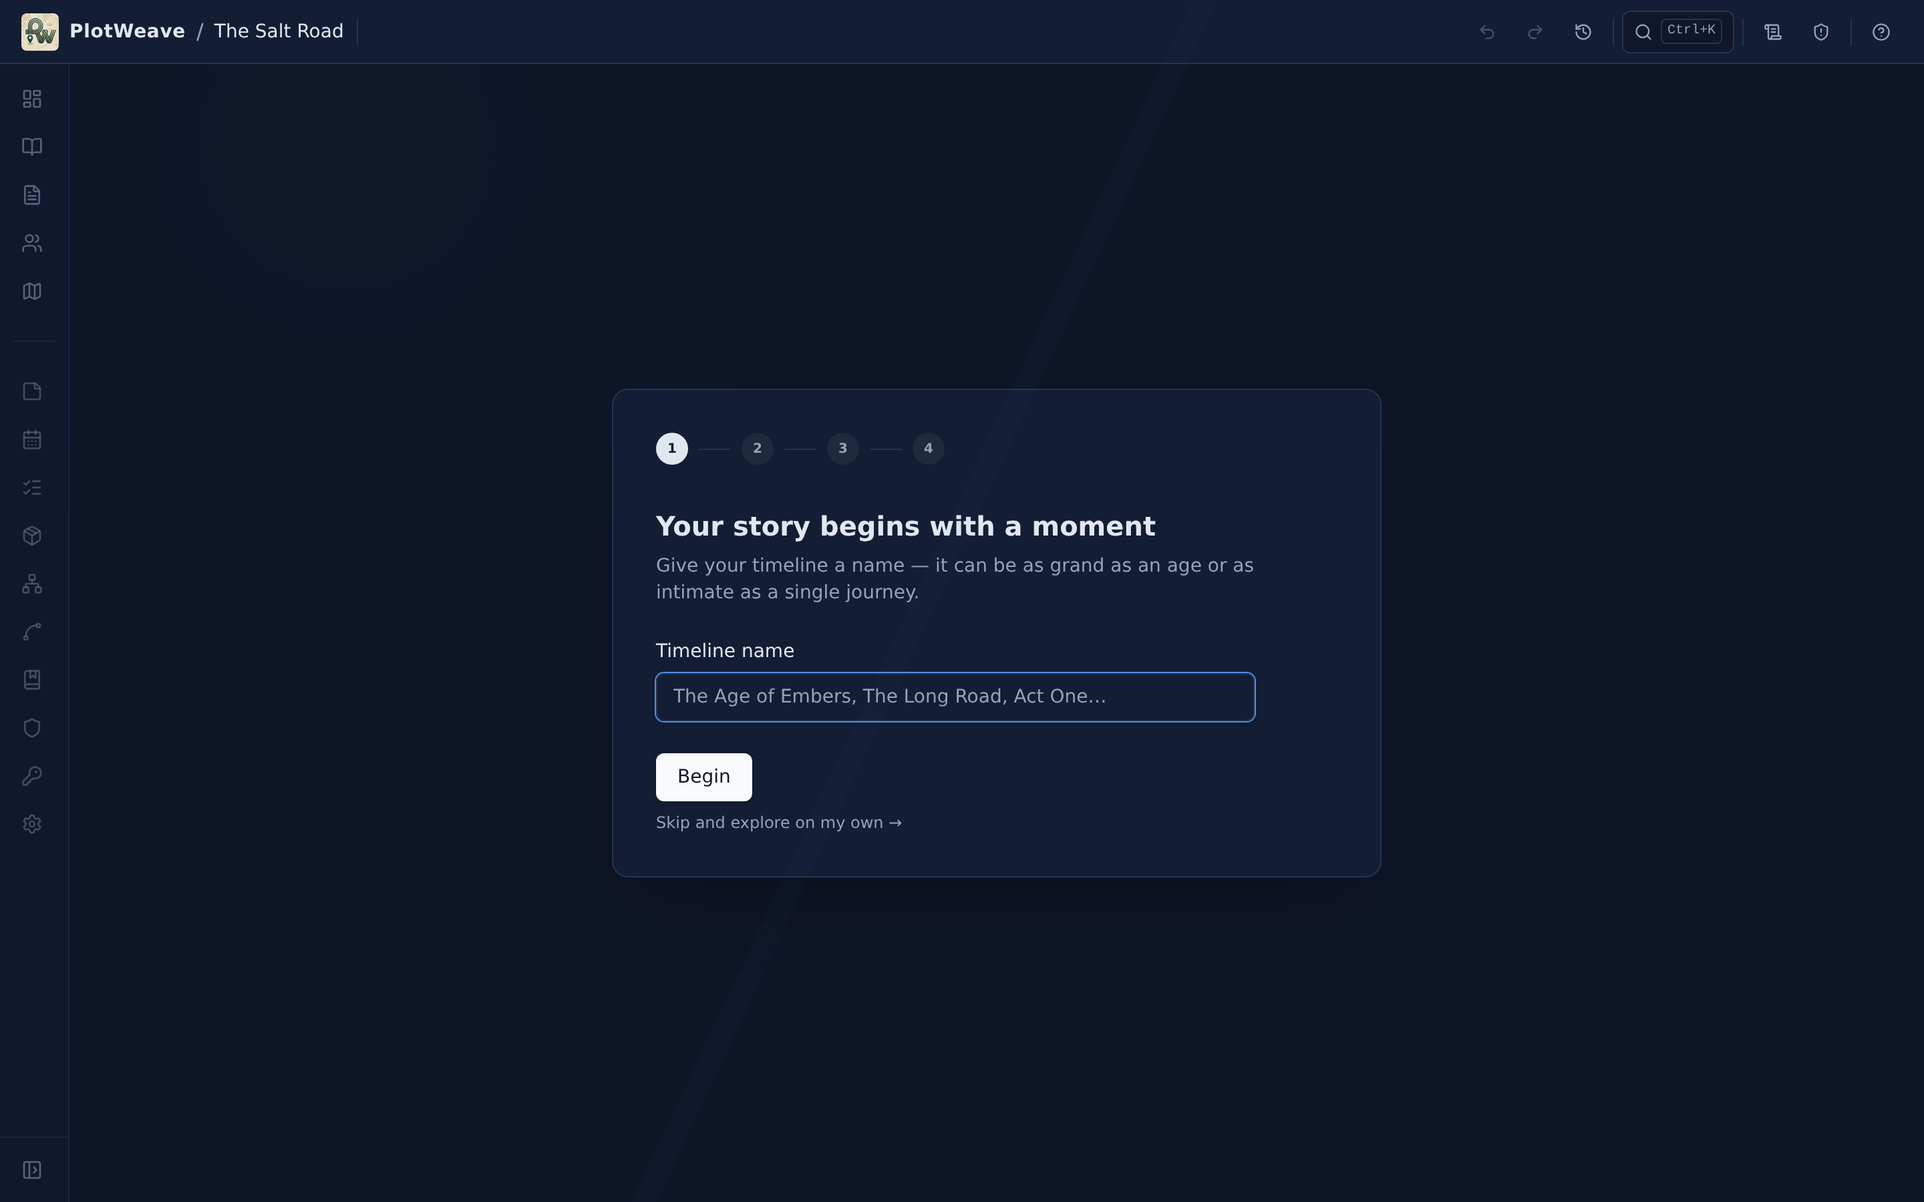
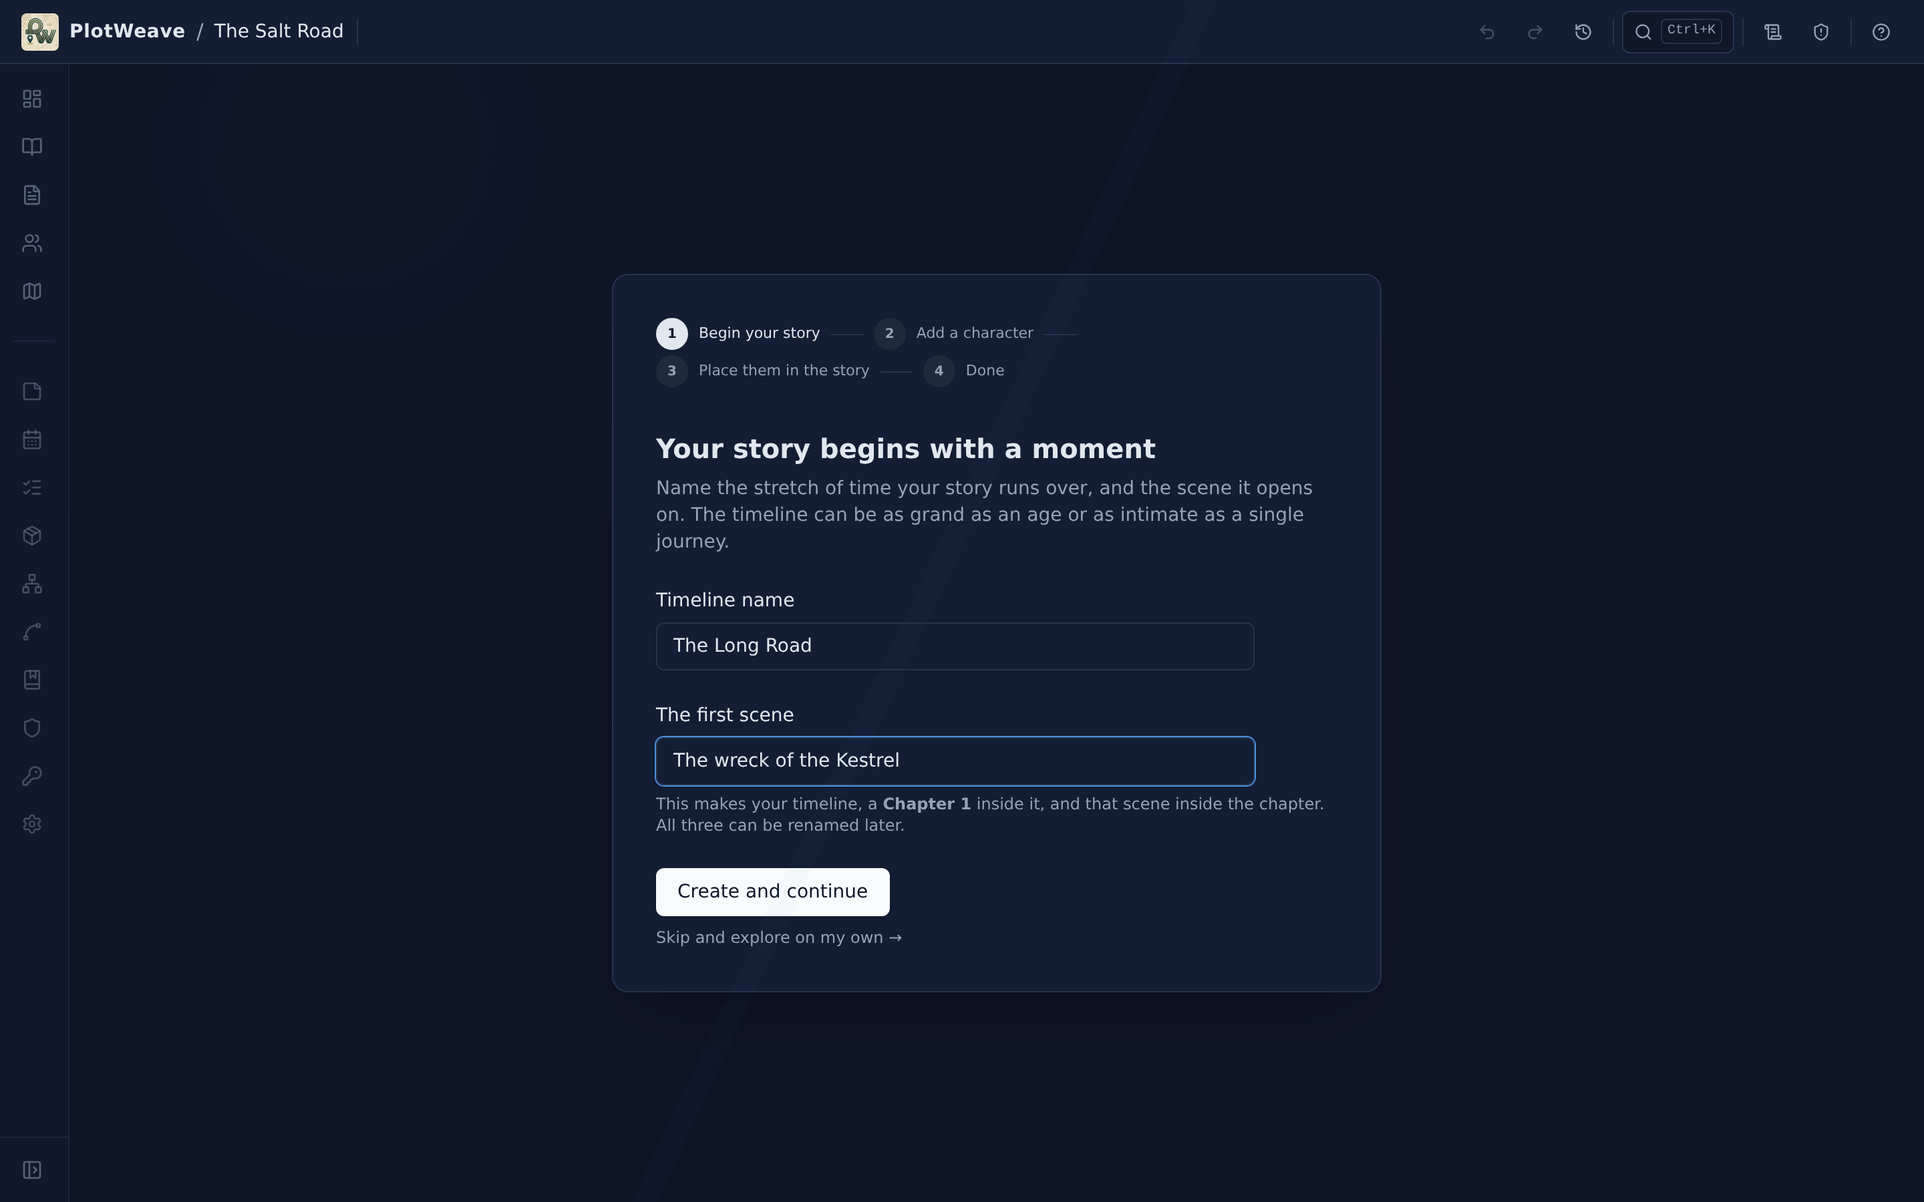
The first step names the moment it makes
OP-3 and OP-4, both about a step of the first-run guide not matching what it
did.

OP-3: step 1 asked for a timeline name under the heading "Your story begins
with a moment" and quietly made three records. The finding said the scene
was untitled; it was not, and the truth was sharper — it took the timeline's
own name, so a writer who typed "The Age of Embers" met an opening moment
called "The Age of Embers", which looks deliberate rather than unfinished.
The step now asks for the scene as well, and says what it will build from
the two: the timeline, a Chapter 1 inside it, and that scene inside the
chapter. Validation is per field, so an empty scene marks the scene input.

OP-4: the disclosure above the primary action read "Add a description
(optional)", directly above "Add them to the story" — two adjacent buttons
both beginning with Add, one of which submits and one of which expands a
field. It is named for what it reveals now, which is what a disclosure is.

While testing OP-3 the wizard's progress nav turned out to name all four
steps at all times, which means NEW-3's "the wizard moved on" assertion was
reading a label that is on screen during step 1 too. It never could have
failed. It reads step 2's own heading now, and the OP-3 test uses the same
signal. Three mutations, all red.

Also records in CLAUDE.md what cost two verification runs today: the e2e
suite reads dist/ and the spec files from disk while it runs, so a rebuild or
[…]

Changed region(s): [[0.3438, 0.5289, 0.6875, 0.8089], [0.3438, 0.3422, 0.6875, 0.4978], [0.3438, 0.2489, 0.4062, 0.3111]]

diff --git a/e2e/onboardingSteps.spec.ts b/e2e/onboardingSteps.spec.ts
@@ -60,12 +60,17 @@ test.describe('The first-run wizard says what it is asking for', () => {
     const create = page.getByRole('button', { name: 'Create and continue' })
     await expect(create).toBeVisible()
     await page.getByLabel('Timeline name').fill('The Age of Embers')
+    await page.getByLabel('The first scene').fill('The wreck')
     await create.click()
 
     // It did what it says, and the wizard moved on — so this is not passing on
     // a button that was merely relabelled and wired to nothing.
-    await expect(page.getByRole('navigation', { name: 'Wizard progress' })
-      .getByText('Add a character', { exact: true })).toBeVisible({ timeout: 15_000 })
+    //
+    // Read off step 2's *heading*, not the step name in the progress nav: NEW-2
+    // draws all four names at all times, so "Add a character" is on screen
+    // during step 1 as well and asserting it proves nothing.
+    await expect(page.getByRole('heading', { name: 'Every story needs someone to follow' }))
+      .toBeVisible({ timeout: 15_000 })
   })
 
   test('NEW-4: the first screen is centred, not a third of a page of wallpaper', async ({ page }) => {
@@ -88,4 +93,68 @@ test.describe('The first-run wizard says what it is asking for', () => {
       getComputedStyle(document.body).backgroundImage)
     expect(wallpaper === 'none' || !wallpaper.includes('url(')).toBe(true)
   })
+})
+
+test('OP-3: step 1 names the moment it makes, and says what else it makes', async ({ page }) => {
+  // The step asked only for a timeline name and quietly created three records:
+  // the timeline, a "Chapter 1" nobody mentioned, and a scene that took the
+  // timeline's own name. The writer then met a moment they had not named.
+  await firstRun(page)
+
+  // It says what it is about to build, rather than leaving you to find out.
+  await expect(page.getByText(/This makes your timeline, a\s+Chapter 1\s+inside it/))
+    .toBeVisible()
+
+  // The moment is asked for, not assumed: naming only the timeline does not
+  // proceed...
+  await page.getByLabel('Timeline name').fill('The Age of Embers')
+  await page.getByRole('button', { name: 'Create and continue' }).click()
+  await expect(page.getByRole('alert')).toContainText('Name the first scene')
+  // Still on step 1. Measured by the step's own heading — the progress nav
+  // names every step at all times, so it says nothing about where you are.
+  const step2 = page.getByRole('heading', { name: 'Every story needs someone to follow' })
+  await expect(step2).toHaveCount(0)
+
+  // ...and naming it does, which is the presence half of that absence.
+  await page.getByLabel('The first scene').fill('The wreck of the Kestrel')
+  await page.getByRole('button', { name: 'Create and continue' }).click()
+  await expect(step2).toBeVisible({ timeout: 15_000 })
+
+  // The scene carries the name the writer gave it, not the timeline's — which
+  // is what made the created moment feel like someone else's.
+  const stored = await page.evaluate(async () => {
+    const db = (window as { __pwdb?: never }).__pwdb as unknown as {
+      events: { toArray: () => Promise<{ title: string }[]> }
+      chapters: { toArray: () => Promise<{ title: string }[]> }
+    }
+    return {
+      events: (await db.events.toArray()).map((e) => e.title),
+      chapters: (await db.chapters.toArray()).map((c) => c.title),
+    }
+  })
+  expect(stored.events).toEqual(['The wreck of the Kestrel'])
+  expect(stored.chapters).toEqual(['Chapter 1'])
+})
+
+test('OP-4: only one button on the character step is an "Add"', async ({ page }) => {
+  // "Add a description (optional)" sat directly above "Add them to the story".
+  // One submits the step, one expands a field, and pressing the wrong one read
+  // as nothing happening at all.
+  await firstRun(page)
+  await page.getByLabel('Timeline name').fill('The Age of Embers')
+  await page.getByLabel('The first scene').fill('The wreck')
+  await page.getByRole('button', { name: 'Create and continue' }).click()
+
+  const form = page.getByRole('main')
+  await expect(form.getByRole('button', { name: 'Add them to the story' }))
+    .toBeVisible({ timeout: 15_000 })
+  await expect(form.getByRole('button', { name: /^Add/ })).toHaveCount(1)
+
+  // The disclosure is still there and still discloses — so the count above is
+  // one because the control was renamed, not because it was removed.
+  const disclosure = form.getByRole('button', { name: 'Description (optional)' })
+  await expect(disclosure).toBeVisible()
+  await expect(form.getByLabel('Character description (optional)')).toHaveCount(0)
+  await disclosure.click()
+  await expect(form.getByLabel('Character description (optional)')).toBeVisible()
 })

diff --git a/src/features/onboarding/steps/StepTimeline.tsx b/src/features/onboarding/steps/StepTimeline.tsx
@@ -14,7 +14,10 @@ interface StepTimelineProps {
 
 export function StepTimeline({ worldId, onComplete, onSkip }: StepTimelineProps) {
   const [name, setName]       = useState('')
-  const [error, setError]     = useState('')
+  const [scene, setScene]     = useState('')
+  // Which field is complaining, so the message and `aria-invalid` land on the
+  // one that is actually empty rather than on whichever renders the error node.
+  const [error, setError]     = useState<{ field: 'name' | 'scene'; message: string } | null>(null)
   const [loading, setLoading] = useState(false)
   const inputRef              = useRef<HTMLInputElement>(null)
 
@@ -22,7 +25,14 @@ export function StepTimeline({ worldId, onComplete, onSkip }: StepTimelineProps)
 
   async function handleSubmit(e: React.FormEvent) {
     e.preventDefault()
-    if (!name.trim()) { setError('Give this moment a name before we begin.'); return }
+    if (!name.trim()) {
+      setError({ field: 'name', message: 'Give your timeline a name before we begin.' })
+      return
+    }
+    if (!scene.trim()) {
+      setError({ field: 'scene', message: 'Name the first scene — this is the moment your story opens on.' })
+      return
+    }
     setLoading(true)
     try {
       const timeline = await createTimeline({ worldId, name: name.trim(), description: '', color: '#6366f1' })
@@ -31,7 +41,7 @@ export function StepTimeline({ worldId, onComplete, onSkip }: StepTimelineProps)
         worldId,
         timelineId: timeline.id,
         chapterId: chapter.id,
-        title: name.trim(),
+        title: scene.trim(),
         description: '',
         locationMarkerId: null,
         involvedCharacterIds: [],
@@ -52,7 +62,8 @@ export function StepTimeline({ worldId, onComplete, onSkip }: StepTimelineProps)
           Your story begins with a moment
         </h2>
         <p className="mt-1.5 text-sm text-[hsl(var(--muted-foreground))]">
-          Give your timeline a name — it can be as grand as an age or as intimate as a single journey.
+          Name the stretch of time your story runs over, and the scene it opens on.
+          The timeline can be as grand as an age or as intimate as a single journey.
         </p>
       </div>
 
@@ -64,16 +75,48 @@ export function StepTimeline({ worldId, onComplete, onSkip }: StepTimelineProps)
           id="wizard-timeline-name"
           ref={inputRef}
           value={name}
-          onChange={(e) => { setName(e.target.value); setError('') }}
+          onChange={(e) => { setName(e.target.value); setError(null) }}
           placeholder="The Age of Embers, The Long Road, Act One…"
-          aria-describedby={error ? 'wizard-timeline-error' : undefined}
-          aria-invalid={!!error}
+          aria-describedby={error?.field === 'name' ? 'wizard-timeline-error' : undefined}
+          aria-invalid={error?.field === 'name'}
           className="max-w-md"
           disabled={loading}
         />
-        {error && (
+        {error?.field === 'name' && (
           <p id="wizard-timeline-error" role="alert" className="text-xs text-red-500">
-            {error}
+            {error.message}
+          </p>
+        )}
+      </div>
+
+      {/*
+        OP-3: this step asked for a timeline name and silently made three
+        records — a timeline, "Chapter 1", and a scene that took the timeline's
+        own name, so the writer met a moment they had not named and a chapter
+        nobody had mentioned. The heading promises a moment, so the step now
+        asks for one, and says what it is about to build.
+      */}
+      <div className="flex flex-col gap-1.5">
+        <Label htmlFor="wizard-first-scene" className="text-sm">
+          The first scene
+        </Label>
+        <Input
+          id="wizard-first-scene"
+          value={scene}
+          onChange={(e) => { setScene(e.target.value); setError(null) }}
+          placeholder="The wreck, A letter arrives, The gate opens…"
+          aria-describedby={error?.field === 'scene' ? 'wizard-scene-error' : 'wizard-creates'}
+          aria-invalid={error?.field === 'scene'}
+          className="max-w-md"
+          disabled={loading}
+        />
+        <p id="wizard-creates" className="text-xs text-[hsl(var(--muted-foreground))]">
+          This makes your timeline, a <strong>Chapter 1</strong> inside it, and that
+          scene inside the chapter. All three can be renamed later.
+        </p>
+        {error?.field === 'scene' && (
+          <p id="wizard-scene-error" role="alert" className="text-xs text-red-500">
+            {error.message}
           </p>
         )}
       </div>

diff --git a/src/features/onboarding/steps/StepCharacter.tsx b/src/features/onboarding/steps/StepCharacter.tsx
@@ -83,8 +83,16 @@ export function StepCharacter({ worldId, onComplete, onSkip }: StepCharacterProp
             )}
             aria-expanded={descExpanded}
           >
+            {/*
+              OP-4: this read "Add a description (optional)" and sat directly
+              above the primary "Add them to the story". Two adjacent buttons
+              both starting with "Add", one of which submits the step and one of
+              which expands a field — pressing the wrong one looked like nothing
+              happening. A disclosure is named for what it reveals, not for an
+              action, so it is a noun now and the collision is gone.
+            */}
             <ChevronDown className={cn('h-3.5 w-3.5 transition-transform', descExpanded && 'rotate-180')} />
-            Add a description (optional)
+            Description (optional)
           </button>
           {descExpanded && (
             <Textarea

diff --git a/e2e/chapterCursor.spec.ts b/e2e/chapterCursor.spec.ts
@@ -107,6 +107,7 @@ test.describe('The time cursor follows you', () => {
 
     // Step 1 is headed "Your story begins with a moment" and creates one.
     await page.getByLabel('Timeline name').fill('Main Timeline')
+    await page.getByLabel('The first scene').fill('The wreck')
     await page.getByRole('button', { name: 'Create and continue' }).click()
 
     // The guide chose a moment on the writer's behalf, so the app is now in it —

diff --git a/docs/ux-review.md b/docs/ux-review.md
@@ -213,8 +213,8 @@ faults in the product. Only what survived that second check is listed.
 |---|---|---|---|
 | OP-1 | high | **done** | **One Escape closes two layers.** Open a dialog (Add Character), press Ctrl+K, and the search palette opens *on top of it*. A single Escape then dismisses **both** — verified: palette `false`, dialog `false` after one press. A user who searches for a name mid-form and presses Escape to get back loses the half-filled dialog and its input. Escape should dismiss the topmost layer only. |
 | OP-2 | med | open | **An open palette traps you.** With the palette up, the nav rail is unreachable: the link resolves but the click is intercepted by the overlay, so the only way out is Escape. That is defensible for a modal on its own, but combined with OP-1 it means overlay layering is not being managed deliberately — the palette will happily stack on anything, and Escape does not respect the stack. |
-| OP-3 | med | open | **The first-run guide creates more than it says.** Step 1 asks only for a timeline name, under the heading *"Your story begins with a moment"*. Verified by reading IndexedDB straight after: naming a timeline and a character leaves **1 chapter, 1 event, and 1 character** in the world. The chapter and the event were never named, shown, or mentioned — the user then meets a "Ch. 1" and an untitled scene they did not knowingly make. Either say so, or let them name the scene, which is what the heading already promises. |
-| OP-4 | low | open | **Two buttons whose names both begin with "Add", adjacent.** On the character step, *"Add a description (optional)"* (a disclosure) sits directly above the primary *"Add them to the story"*. Clicking the wrong one silently expands a field instead of submitting, with no feedback that nothing happened. It cost this review a whole run. |
+| OP-3 | med | **fixed** | **The first-run guide creates more than it says.** Step 1 asks only for a timeline name, under the heading *"Your story begins with a moment"*. Verified by reading IndexedDB straight after: naming a timeline and a character leaves **1 chapter, 1 event, and 1 character** in the world. The chapter and the event were never named, shown, or mentioned — the user then meets a "Ch. 1" and an untitled scene they did not knowingly make. Either say so, or let them name the scene, which is what the heading already promises. | **Both, because they were the same fix.** The step asks for the first scene as well as the timeline, and states what it will build from the two: the timeline, a *Chapter 1* inside it, and that scene inside the chapter, all three renameable later. **One detail the finding got wrong, and it was the sharper half:** the scene was not untitled — it silently took the *timeline's* name, so a writer who typed *The Age of Embers* met an opening moment called *The Age of Embers*. That is worse than untitled, because it looks deliberate. Validation is now per field, so an empty scene marks the scene input rather than the timeline one. |
+| OP-4 | low | **fixed** | **Two buttons whose names both begin with "Add", adjacent.** On the character step, *"Add a description (optional)"* (a disclosure) sits directly above the primary *"Add them to the story"*. Clicking the wrong one silently expands a field instead of submitting, with no feedback that nothing happened. It cost this review a whole run. | **Fixed by naming the disclosure for what it reveals rather than for an action** — *Description (optional)*. A disclosure is not a verb, and the moment it stopped being one the collision went with it: there is now exactly one button on the step whose name begins with *Add*, and it is the one that submits. |
 
 | OP-5 | high | **fixed** | **Finishing the first-run guide leaves no time cursor set.** The pill reads *"All chapters"* the moment the guide ends — verified twice, and visible in the capture. Step 3 of that same guide is headed *"Where does their story begin?"* and places the character at Ch. 1, so the guide selects a moment on the user's behalf and then hands them an app that has forgotten it. Everything cursor-dependent is consequently switched off for a brand-new user who has done everything they were asked. **Fixed.** Step 1 creates the moment, so it now sets the cursor to it — the later steps place a character at that same moment, which makes them agree rather than the guide choosing a moment and the app forgetting it. |
 | OP-9 | high | **done** | **The search palette outlived the screen it was opened on.** Choosing a result closed it, but arriving anywhere by any other route did not — so a modal sat over an unrelated screen, swallowing every click until Escape. It derailed three separate runs of this review before being recognised as a fault rather than a fluke, which is about as strong a usability signal as a review can produce. Now closed on route change. |

diff --git a/docs/GUIDE.md b/docs/GUIDE.md
@@ -127,11 +127,15 @@ The four steps are named across the top — *Begin your story*, *Add a character
 *Place them in the story*, *Done* — so you can see what the guide will ask before
 you agree to any of it. On a phone only the step you are on is named; the numbers
 and ticks still show where you are. Step 1's button reads **Create and continue**:
-it makes the timeline you have just named and moves the guide on.
+it makes what you have just named and moves the guide on.
 
-Step 1 creates your first moment, and PlotWeave moves the [time
-cursor](#core-concept-the-time-cursor) to it — so when the guide hands the app
-back, everything that answers "what is true right now?" already has an answer.
+Step 1 asks for two names — the **timeline**, meaning the stretch of time your
+story runs over, and the **first scene**, the moment it opens on — and says what
+it will build from them: the timeline, a *Chapter 1* inside it, and that scene
+inside the chapter. All three can be renamed later. PlotWeave then moves the
+[time cursor](#core-concept-the-time-cursor) to that scene, so when the guide
+hands the app back, everything that answers "what is true right now?" already has
+an answer.
 
 While the guide is on screen it takes the middle of it, and the navigation rail
 steps back so the next thing to do is the clearest thing to see. The rail is

diff --git a/CLAUDE.md b/CLAUDE.md
@@ -141,6 +141,16 @@ tip before saying it passes, and read what the tools already wrote — Playwrigh
 saves a page snapshot to `test-results/…/error-context.md` that usually
 identifies the failure faster than reasoning about the error message does.
 
+**Nothing the suite reads may change while it runs.** The e2e run serves `dist/`
+from disk and reads the spec files from disk, so an `npm run build` or a spec
+edit part-way through does not queue up for the next run — it lands in the one
+already going, and every test after that point is reporting on a mixture of two
+states. It happened twice in one sitting: a rebuild produced two "failures" whose
+only symptom was `__pwdb` being undefined, and a spec edit produced one whose
+only symptom was a field the built app did not have yet. Both looked exactly like
+real regressions and neither was. If you have to change something under a run,
+stop the run — its result is no longer about any commit.
+
 **Scope a locator to what it is about.** A page-wide `getByText('First Scene')`
 or `getByRole('button', { name: /The gate opens/ })` is a bug waiting for a
 second match, and the app's own chrome supplies them: the time-cursor pill
